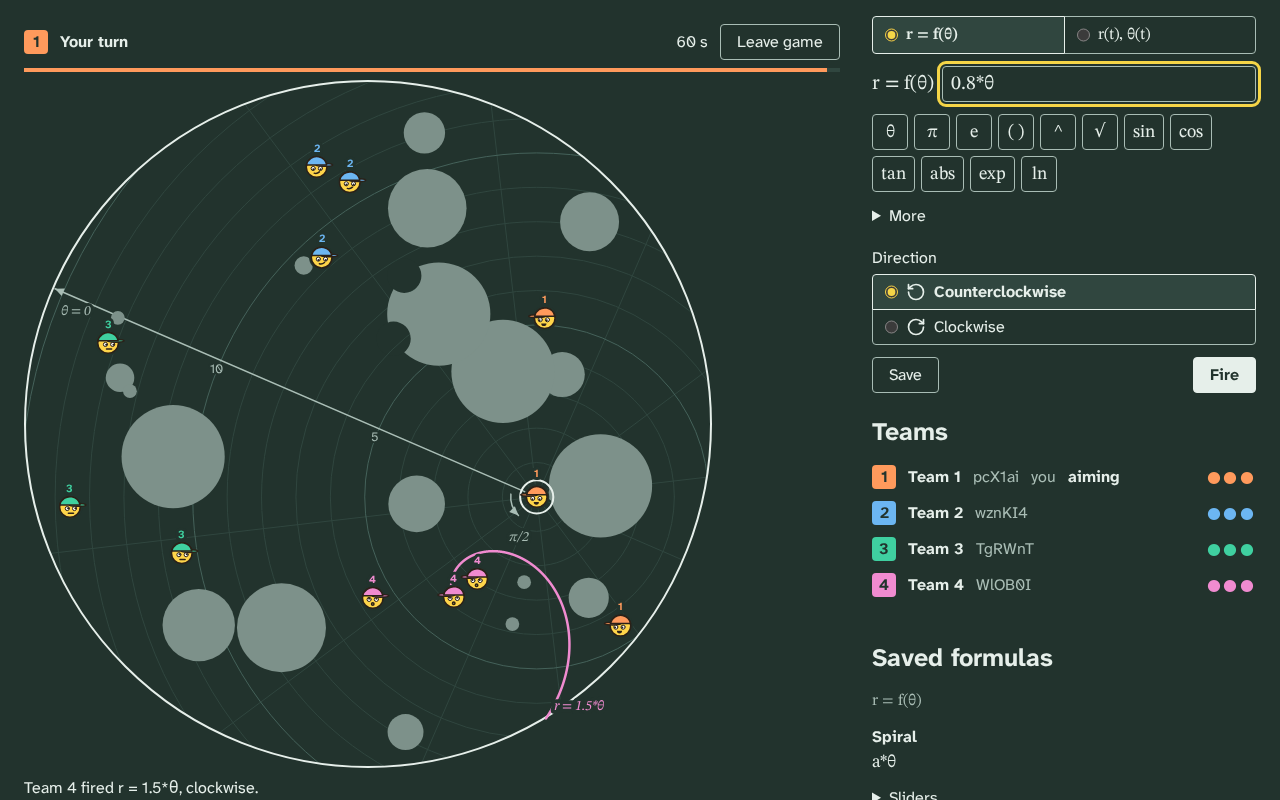
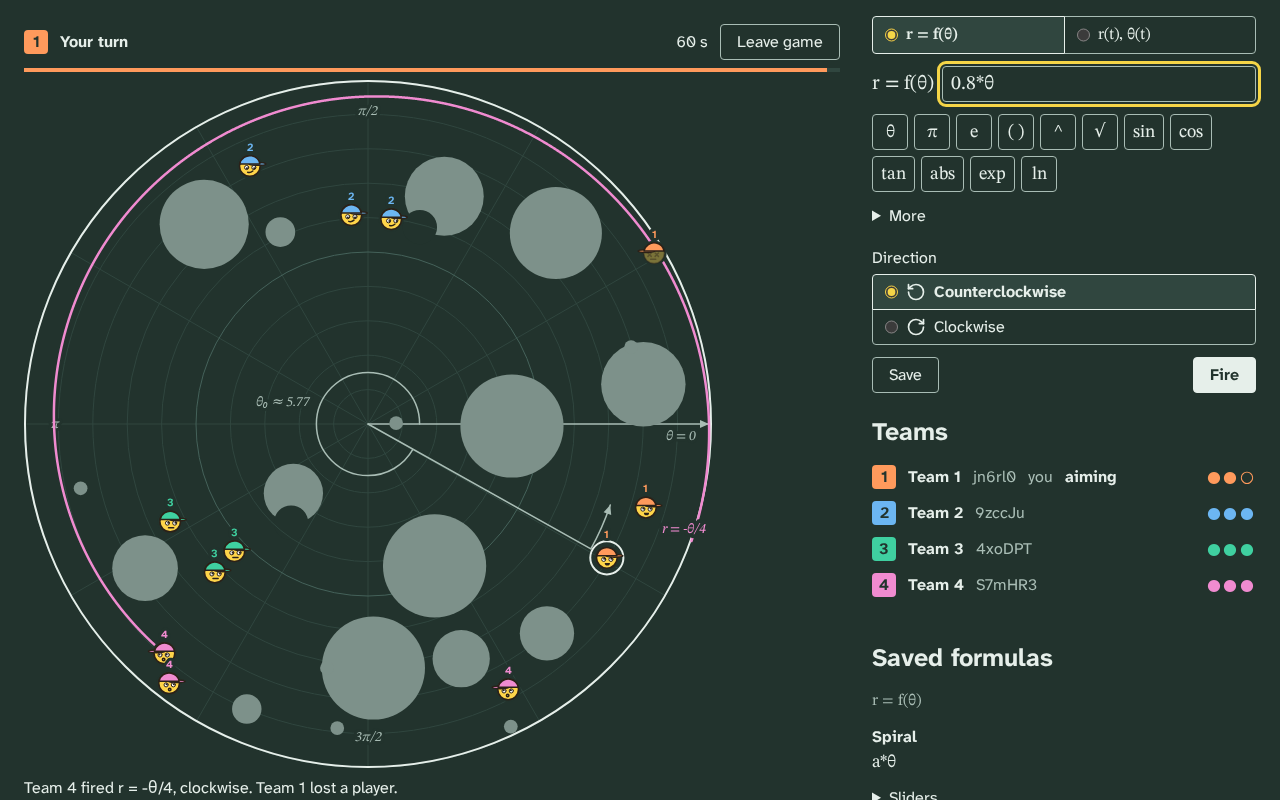
README: the coordinates option; re-take the screenshots in the map-centred frame

diff --git a/README.md b/README.md
@@ -7,6 +7,9 @@ Each shot is a formula path:
 - XY field (2 players): `y = f(x)` or parametric `x(t)`, `y(t)`.
 - Polar disc field (2-8 players): `r = f(θ)` or parametric `r(t)`, `θ(t)`.
 
+The host picks the coordinates: centred on the map, like Graphwar (the default), or on the player
+who shoots. Either way a shot starts at the player.
+
 There is no server. Players connect peer-to-peer over WebRTC (Trystero), and a lobby on public
 Nostr relays lets them find each other.
 
